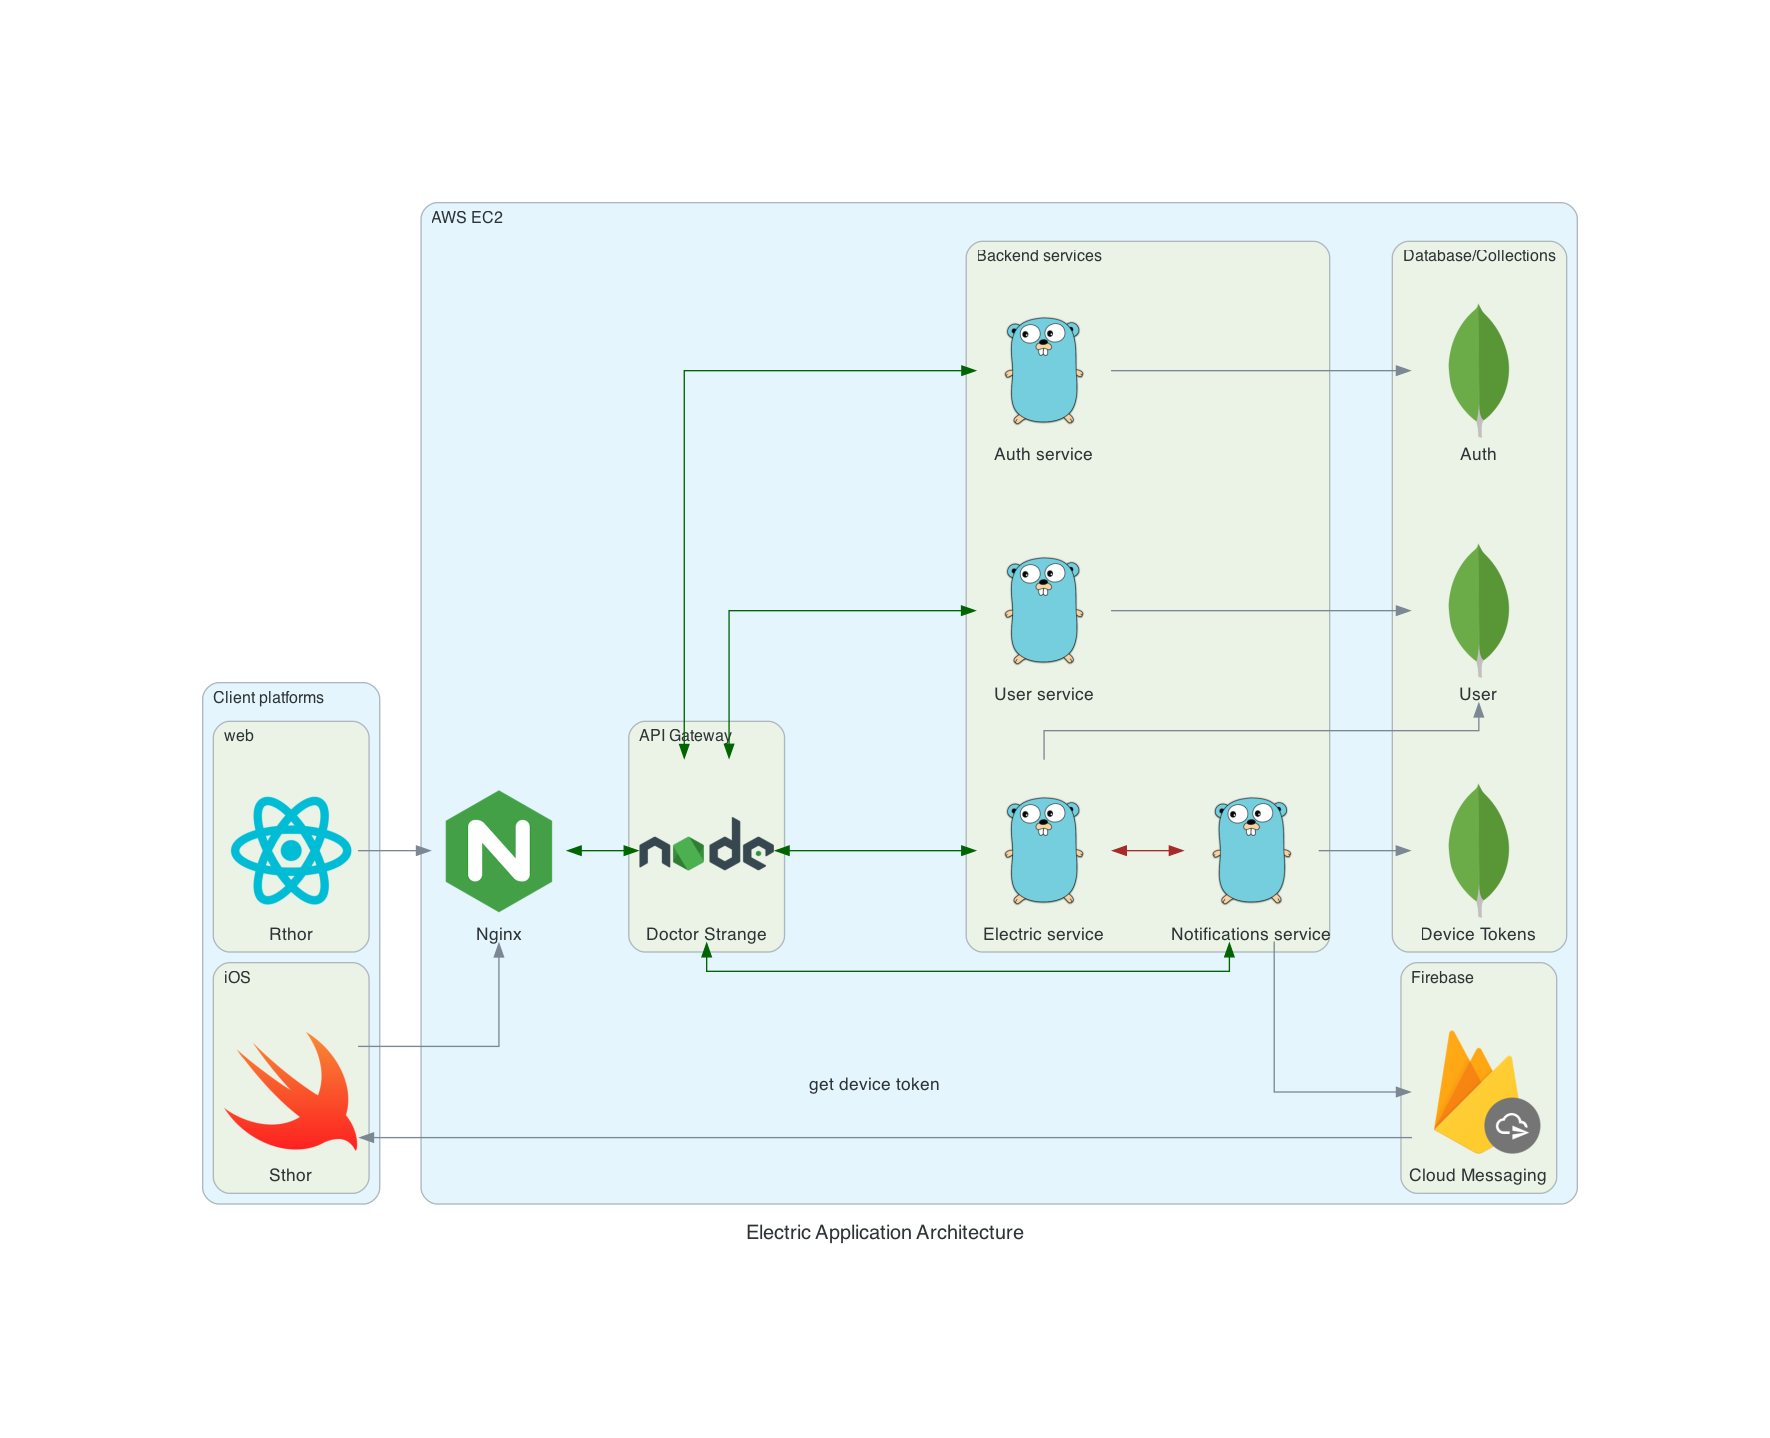
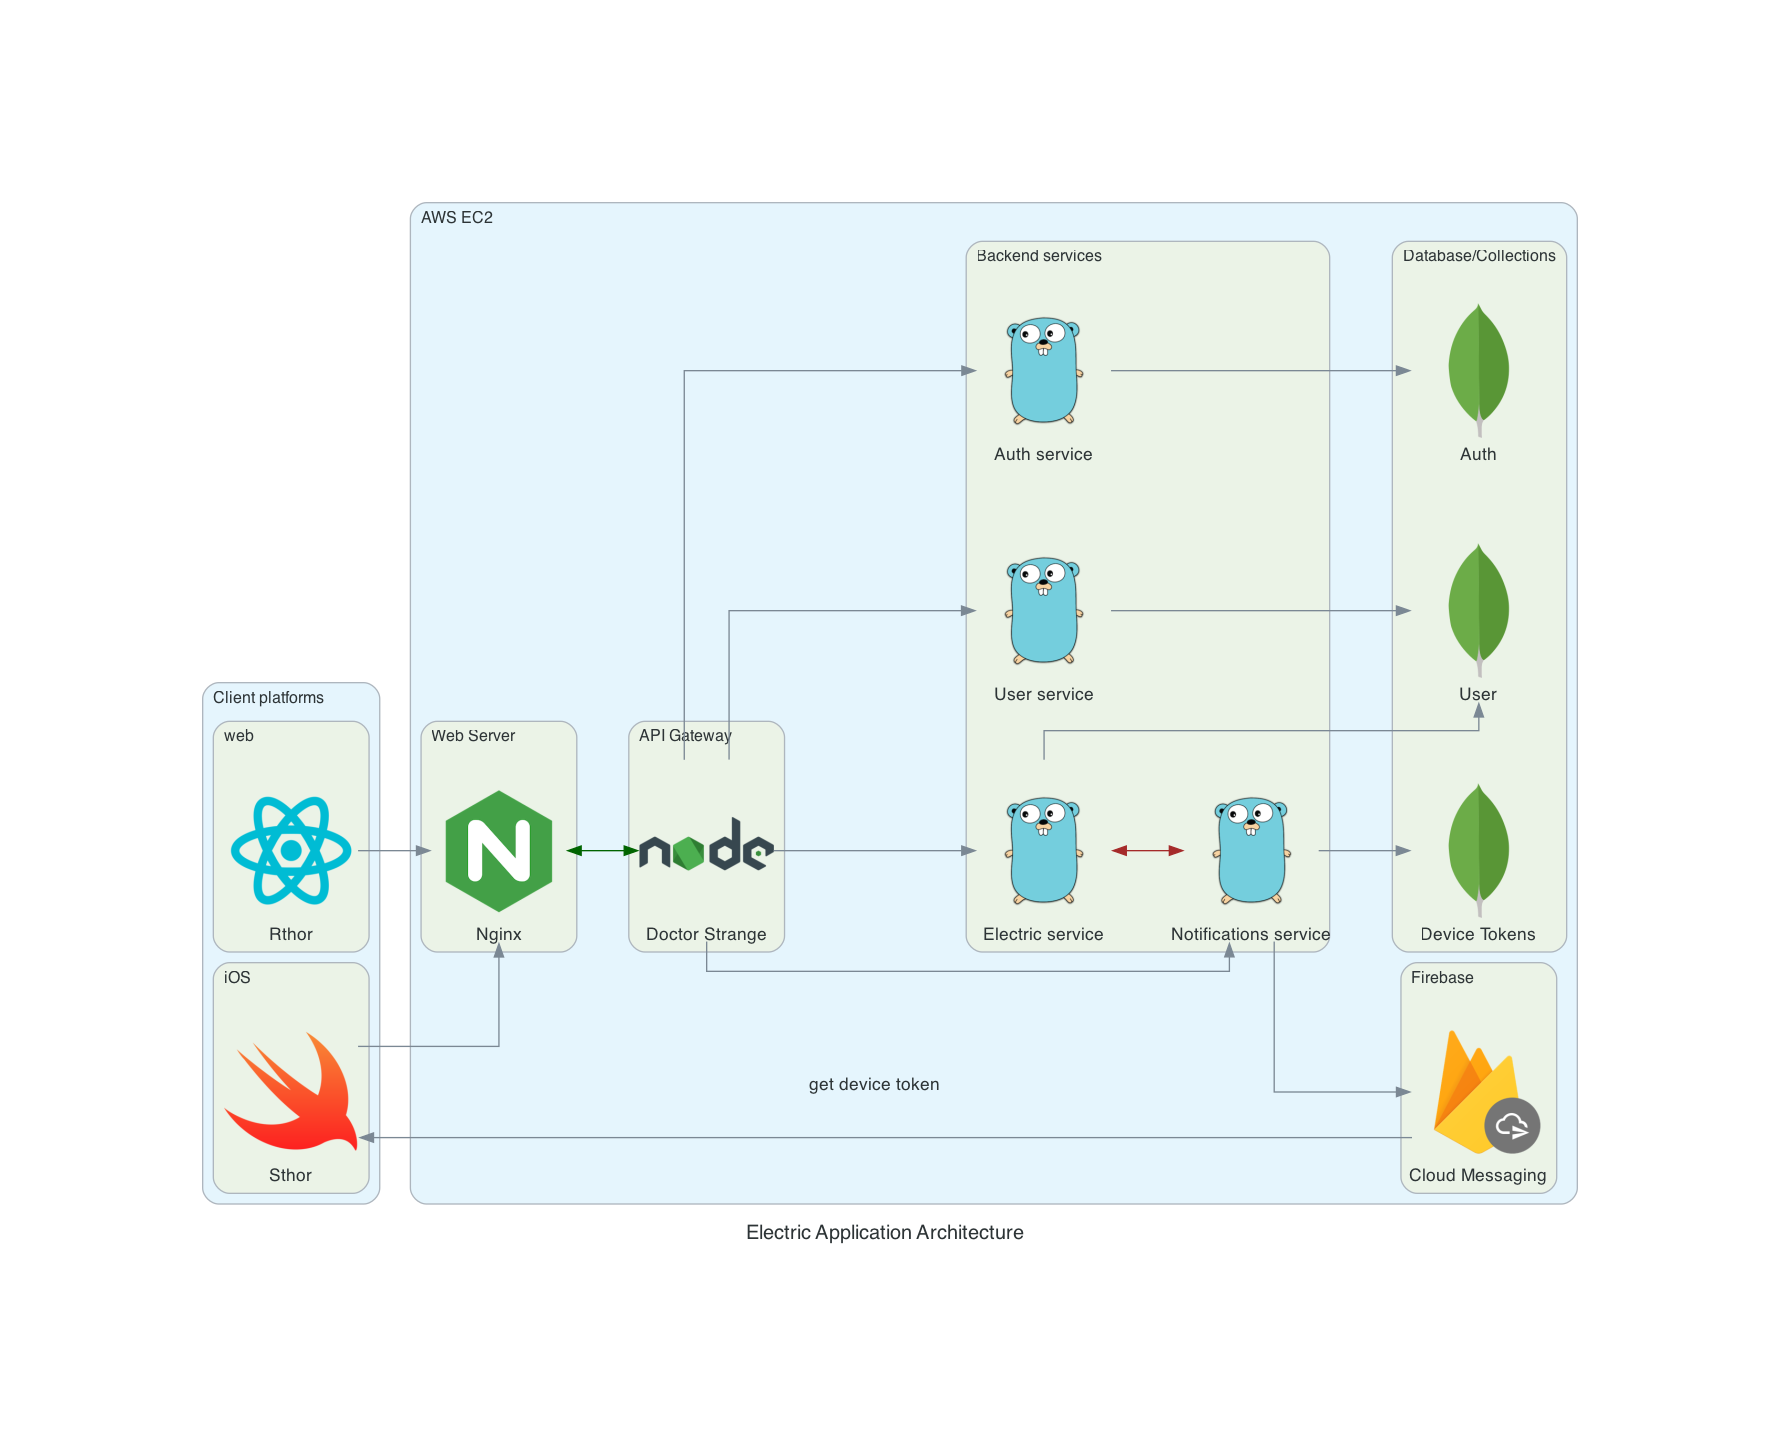
Update architecture

Changed region(s): [[0.2175, 0.1224, 0.2797, 0.8261]]

diff --git a/diagram.py b/diagram.py
@@ -13,8 +13,9 @@ with Diagram("Electric Application Architecture", show=False):
         with Cluster('web'):
             react = React('Rthor')
         
-    with Cluster('AWS EC2'):            
-        nginx = Nginx("Nginx")
+    with Cluster('AWS EC2'):   
+        with Cluster('Web Server'):         
+            nginx = Nginx("Nginx")
         # Database
         with Cluster('Database/Collections'):
             auth_db = MongoDB("Auth")
@@ -38,10 +39,10 @@ with Diagram("Electric Application Architecture", show=False):
     react >> nginx
     nginx >> Edge(color="darkgreen") << api_gateway 
     
-    api_gateway >> Edge(color="darkgreen") << auth >> auth_db
-    api_gateway >> Edge(color="darkgreen") << user >> user_db
-    api_gateway >> Edge(color="darkgreen") << electric >> user_db
-    api_gateway >> Edge(color="darkgreen") << notifications 
+    api_gateway >> auth >> auth_db
+    api_gateway >> user >> user_db
+    api_gateway >> electric >> user_db
+    api_gateway >> notifications 
     
     electric >> Edge(color="brown") << notifications
     notifications >> device_token_db
